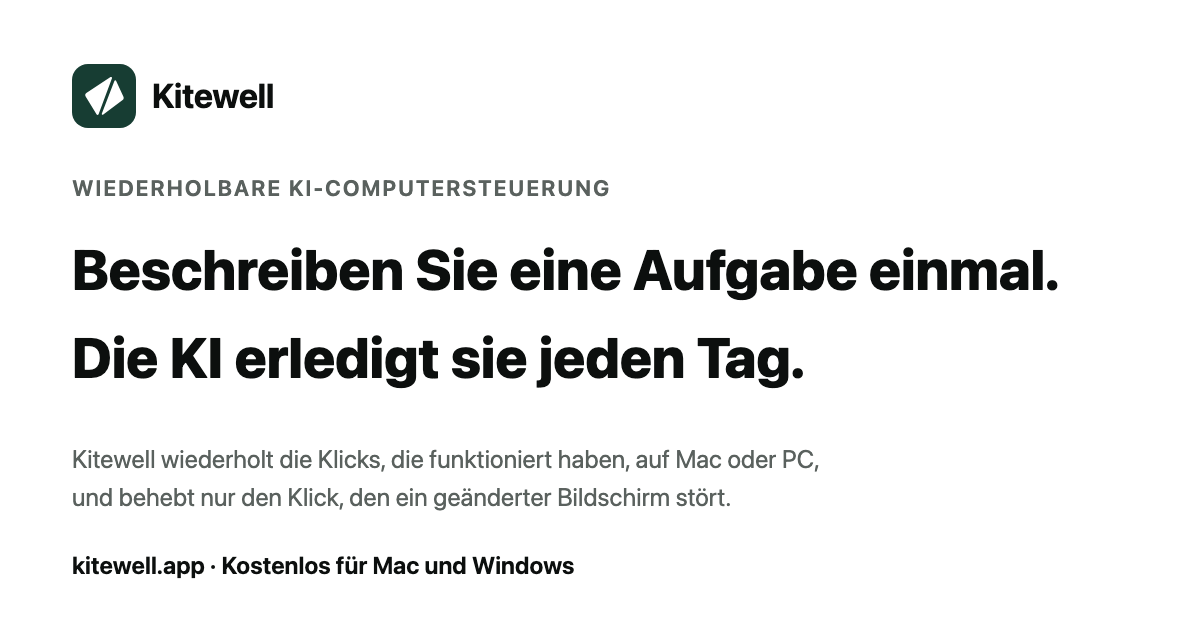
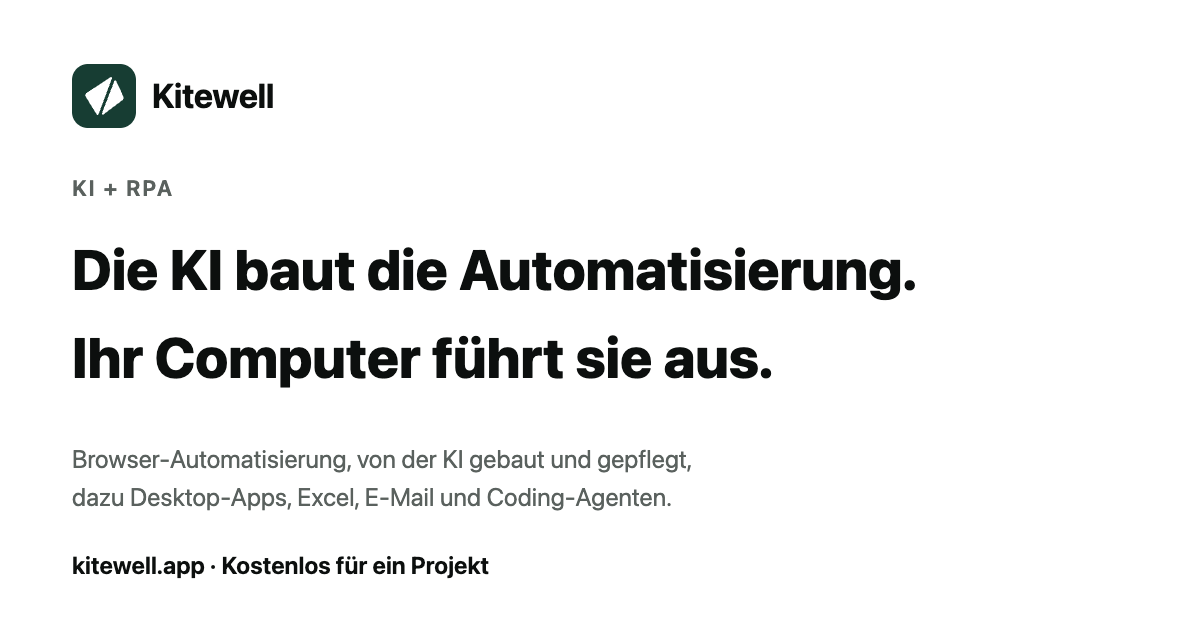
Share the restored headline on cards and the README
Link previews, the page descriptions, and the README carried the
loop's headline. They now carry "AI builds the automation. Your
computer runs it." again in every language, and the README links to
the 74-second film.

diff --git a/README.ja.md b/README.ja.md
@@ -9,14 +9,14 @@
   </a>
 </p>
 
-<h1 align="center">パソコン作業を一度伝えれば、<br>AI が毎日やってくれる。</h1>
+<h1 align="center">自動化は AI がつくる。<br>動かすのは、あなたのパソコン。</h1>
 
 <p align="center">
-  Kitewell の AI が目の前でブラウザーやアプリを操作し、うまくいった操作を覚えて決まった時間にくり返します。サイトが変わったら、その操作だけを直して記録に残します。
+  やってほしい仕事を伝えれば、AI が目の前のブラウザーで自動化をつくり、サイトが変わったら直します。デスクトップアプリ、Excel、メール、Claude Code などのコーディングエージェントも同じように、スケジュールや Webhook で、大事なところはあなたの OK を待って動きます。外出先からも、スマホで見守れます。
 </p>
 
 <p align="center">
-  <a href="https://kitewell.app/ja/#film"><strong>▶ 動く様子を見る（18 秒）</strong></a> ·
+  <a href="https://kitewell.app/ja/#film"><strong>▶ 映像を見る（74 秒）</strong></a> ·
   <a href="https://kitewell.app/ja/download/">ダウンロード</a> ·
   <a href="https://kitewell.app/ja/docs/getting-started/">はじめかた</a> ·
   <a href="https://kitewell.app/ja/docs/">ドキュメント</a> ·

diff --git a/README.md b/README.md
@@ -9,16 +9,17 @@
   </a>
 </p>
 
-<h1 align="center">Describe a computer chore once.<br>AI does it every day.</h1>
+<h1 align="center">AI builds the automation.<br>Your computer runs it.</h1>
 
 <p align="center">
-  Kitewell's AI does the job in a browser or desktop app while you watch,
-  keeps the clicks that worked, and repeats them on your schedule. When a
-  site changes, it fixes just that click.
+  Describe the job, and AI builds the automation in a browser you can watch,
+  then fixes it when the site changes. Desktop apps, Excel, email, and coding
+  agents like Claude Code run the same way: on a schedule or a webhook, with
+  your OK where it matters. Follow it from your phone, wherever you are.
 </p>
 
 <p align="center">
-  <a href="https://kitewell.app/#film"><strong>▶ See it work (18 s)</strong></a> ·
+  <a href="https://kitewell.app/#film"><strong>▶ Watch the 74-second film</strong></a> ·
   <a href="https://kitewell.app/download/">Download</a> ·
   <a href="https://kitewell.app/docs/getting-started/">Get started</a> ·
   <a href="https://kitewell.app/docs/">Docs</a> ·
